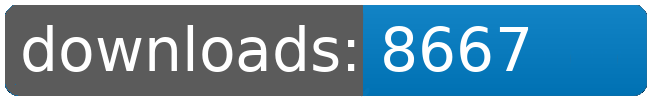
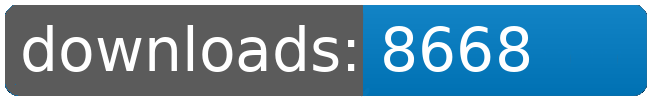
dl log written

Changed region(s): [[0.7692, 0.24, 0.8308, 0.72]]

diff --git a/README.md b/README.md
@@ -4,80 +4,80 @@
 <table>
 	<tr>
 		<td></td>
-		<td>2026-09-18</td>
 		<td>2026-09-19</td>
 		<td>2026-09-20</td>
 		<td>2026-09-21</td>
 		<td>2026-09-22</td>
 		<td>2026-09-23</td>
 		<td>2026-09-24</td>
+		<td>2026-09-25</td>
 		<td>today +</td>
 	</tr>
 	<tr>
 		<td>Bunsen.Burner</td>
-		<td>8598</td>
 		<td>8609</td>
 		<td>8623</td>
 		<td>8632</td>
 		<td>8643</td>
 		<td>8654</td>
 		<td>8667</td>
-		<td>+ 13</td>
+		<td>8668</td>
+		<td>+ 1</td>
 	</tr>
 	<tr>
 		<td>Factory.Outlets</td>
-		<td>7695</td>
 		<td>7706</td>
 		<td>7720</td>
 		<td>7729</td>
 		<td>7741</td>
 		<td>7751</td>
 		<td>7764</td>
-		<td>+ 13</td>
+		<td>7764</td>
+		<td></td>
 	</tr>
 	<tr>
 		<td>Fundamental.Outfit.Expansion</td>
-		<td>9058</td>
 		<td>9071</td>
 		<td>9089</td>
 		<td>9098</td>
 		<td>9113</td>
 		<td>9128</td>
 		<td>9144</td>
-		<td>+ 16</td>
+		<td>9144</td>
+		<td></td>
 	</tr>
 	<tr>
 		<td>Jaws</td>
-		<td>7492</td>
 		<td>7503</td>
 		<td>7514</td>
 		<td>7520</td>
 		<td>7531</td>
 		<td>7544</td>
 		<td>7556</td>
-		<td>+ 12</td>
+		<td>7556</td>
+		<td></td>
 	</tr>
 	<tr>
 		<td>Korunak.Defense.Drones</td>
-		<td>7738</td>
 		<td>7751</td>
 		<td>7765</td>
 		<td>7772</td>
 		<td>7784</td>
 		<td>7794</td>
 		<td>7806</td>
-		<td>+ 12</td>
+		<td>7806</td>
+		<td></td>
 	</tr>
 	<tr>
 		<td>Louise.Conglomerate.Shipyards</td>
-		<td>8405</td>
 		<td>8419</td>
 		<td>8436</td>
 		<td>8444</td>
 		<td>8457</td>
 		<td>8474</td>
 		<td>8488</td>
-		<td>+ 14</td>
+		<td>8488</td>
+		<td></td>
 	</tr>
 	<tr>
 		<td>Sheragi.Rebirth.Redux</td>
@@ -85,32 +85,32 @@
 		<td>85</td>
 		<td>85</td>
 		<td>85</td>
-		<td>85</td>
 		<td>86</td>
 		<td>87</td>
-		<td>+ 1</td>
+		<td>87</td>
+		<td></td>
 	</tr>
 	<tr>
 		<td>Solar.Sails</td>
-		<td>7624</td>
 		<td>7635</td>
 		<td>7649</td>
 		<td>7655</td>
 		<td>7667</td>
 		<td>7679</td>
 		<td>7691</td>
-		<td>+ 12</td>
+		<td>7691</td>
+		<td></td>
 	</tr>
 	<tr>
 		<td>Zone.of.Control</td>
-		<td>7437</td>
 		<td>7447</td>
 		<td>7459</td>
 		<td>7466</td>
 		<td>7477</td>
 		<td>7490</td>
 		<td>7502</td>
-		<td>+ 12</td>
+		<td>7502</td>
+		<td></td>
 	</tr>
 	<tr>
 		<td></td>
@@ -120,8 +120,8 @@
 		<td></td>
 		<td></td>
 		<td></td>
-		<td>64705</td>
-		<td>105</td>
+		<td>64706</td>
+		<td>1</td>
 	</tr>
 </table>
 </sub></sup>
@@ -129,102 +129,102 @@
 <table>
 	<tr>
 		<td></td>
-		<td>2026-09-18</td>
 		<td>2026-09-19</td>
 		<td>2026-09-20</td>
 		<td>2026-09-21</td>
 		<td>2026-09-22</td>
 		<td>2026-09-23</td>
 		<td>2026-09-24</td>
+		<td>2026-09-25</td>
 		<td>today +</td>
 	</tr>
 	<tr>
 		<td>Fundamental.Outfit.Expansion</td>
-		<td>9058</td>
 		<td>9071</td>
 		<td>9089</td>
 		<td>9098</td>
 		<td>9113</td>
 		<td>9128</td>
 		<td>9144</td>
-		<td>+ 16</td>
+		<td>9144</td>
+		<td></td>
 	</tr>
 	<tr>
 		<td>Bunsen.Burner</td>
-		<td>8598</td>
 		<td>8609</td>
 		<td>8623</td>
 		<td>8632</td>
 		<td>8643</td>
 		<td>8654</td>
 		<td>8667</td>
-		<td>+ 13</td>
+		<td>8668</td>
+		<td>+ 1</td>
 	</tr>
 	<tr>
 		<td>Louise.Conglomerate.Shipyards</td>
-		<td>8405</td>
 		<td>8419</td>
 		<td>8436</td>
 		<td>8444</td>
 		<td>8457</td>
 		<td>8474</td>
 		<td>8488</td>
-		<td>+ 14</td>
+		<td>8488</td>
+		<td></td>
 	</tr>
 	<tr>
 		<td>Korunak.Defense.Drones</td>
-		<td>7738</td>
 		<td>7751</td>
 		<td>7765</td>
 		<td>7772</td>
 		<td>7784</td>
 		<td>7794</td>
 		<td>7806</td>
-		<td>+ 12</td>
+		<td>7806</td>
+		<td></td>
 	</tr>
 	<tr>
 		<td>Factory.Outlets</td>
-		<td>7695</td>
 		<td>7706</td>
 		<td>7720</td>
 		<td>7729</td>
 		<td>7741</td>
 		<td>7751</td>
 		<td>7764</td>
-		<td>+ 13</td>
+		<td>7764</td>
+		<td></td>
 	</tr>
 	<tr>
 		<td>Solar.Sails</td>
-		<td>7624</td>
 		<td>7635</td>
 		<td>7649</td>
 		<td>7655</td>
 		<td>7667</td>
 		<td>7679</td>
 		<td>7691</td>
-		<td>+ 12</td>
+		<td>7691</td>
+		<td></td>
 	</tr>
 	<tr>
 		<td>Jaws</td>
-		<td>7492</td>
 		<td>7503</td>
 		<td>7514</td>
 		<td>7520</td>
 		<td>7531</td>
 		<td>7544</td>
 		<td>7556</td>
-		<td>+ 12</td>
+		<td>7556</td>
+		<td></td>
 	</tr>
 	<tr>
 		<td>Zone.of.Control</td>
-		<td>7437</td>
 		<td>7447</td>
 		<td>7459</td>
 		<td>7466</td>
 		<td>7477</td>
 		<td>7490</td>
 		<td>7502</td>
-		<td>+ 12</td>
+		<td>7502</td>
+		<td></td>
 	</tr>
 	<tr>
 		<td>Sheragi.Rebirth.Redux</td>
@@ -232,10 +232,10 @@
 		<td>85</td>
 		<td>85</td>
 		<td>85</td>
-		<td>85</td>
 		<td>86</td>
 		<td>87</td>
-		<td>+ 1</td>
+		<td>87</td>
+		<td></td>
 	</tr>
 	<tr>
 		<td></td>
@@ -245,8 +245,8 @@
 		<td></td>
 		<td></td>
 		<td></td>
-		<td>64705</td>
-		<td>105</td>
+		<td>64706</td>
+		<td>1</td>
 	</tr>
 </table>
 </sub></sup>
@@ -313,9 +313,9 @@
 		<td></td>
 	</tr>
 	<tr>
-		<td>346</td>
-		<td>20.62</td>
-		<td>6.29</td>
+		<td>347</td>
+		<td>20.56</td>
+		<td>6.27</td>
 		<td></td>
 		<td></td>
 	</tr>
